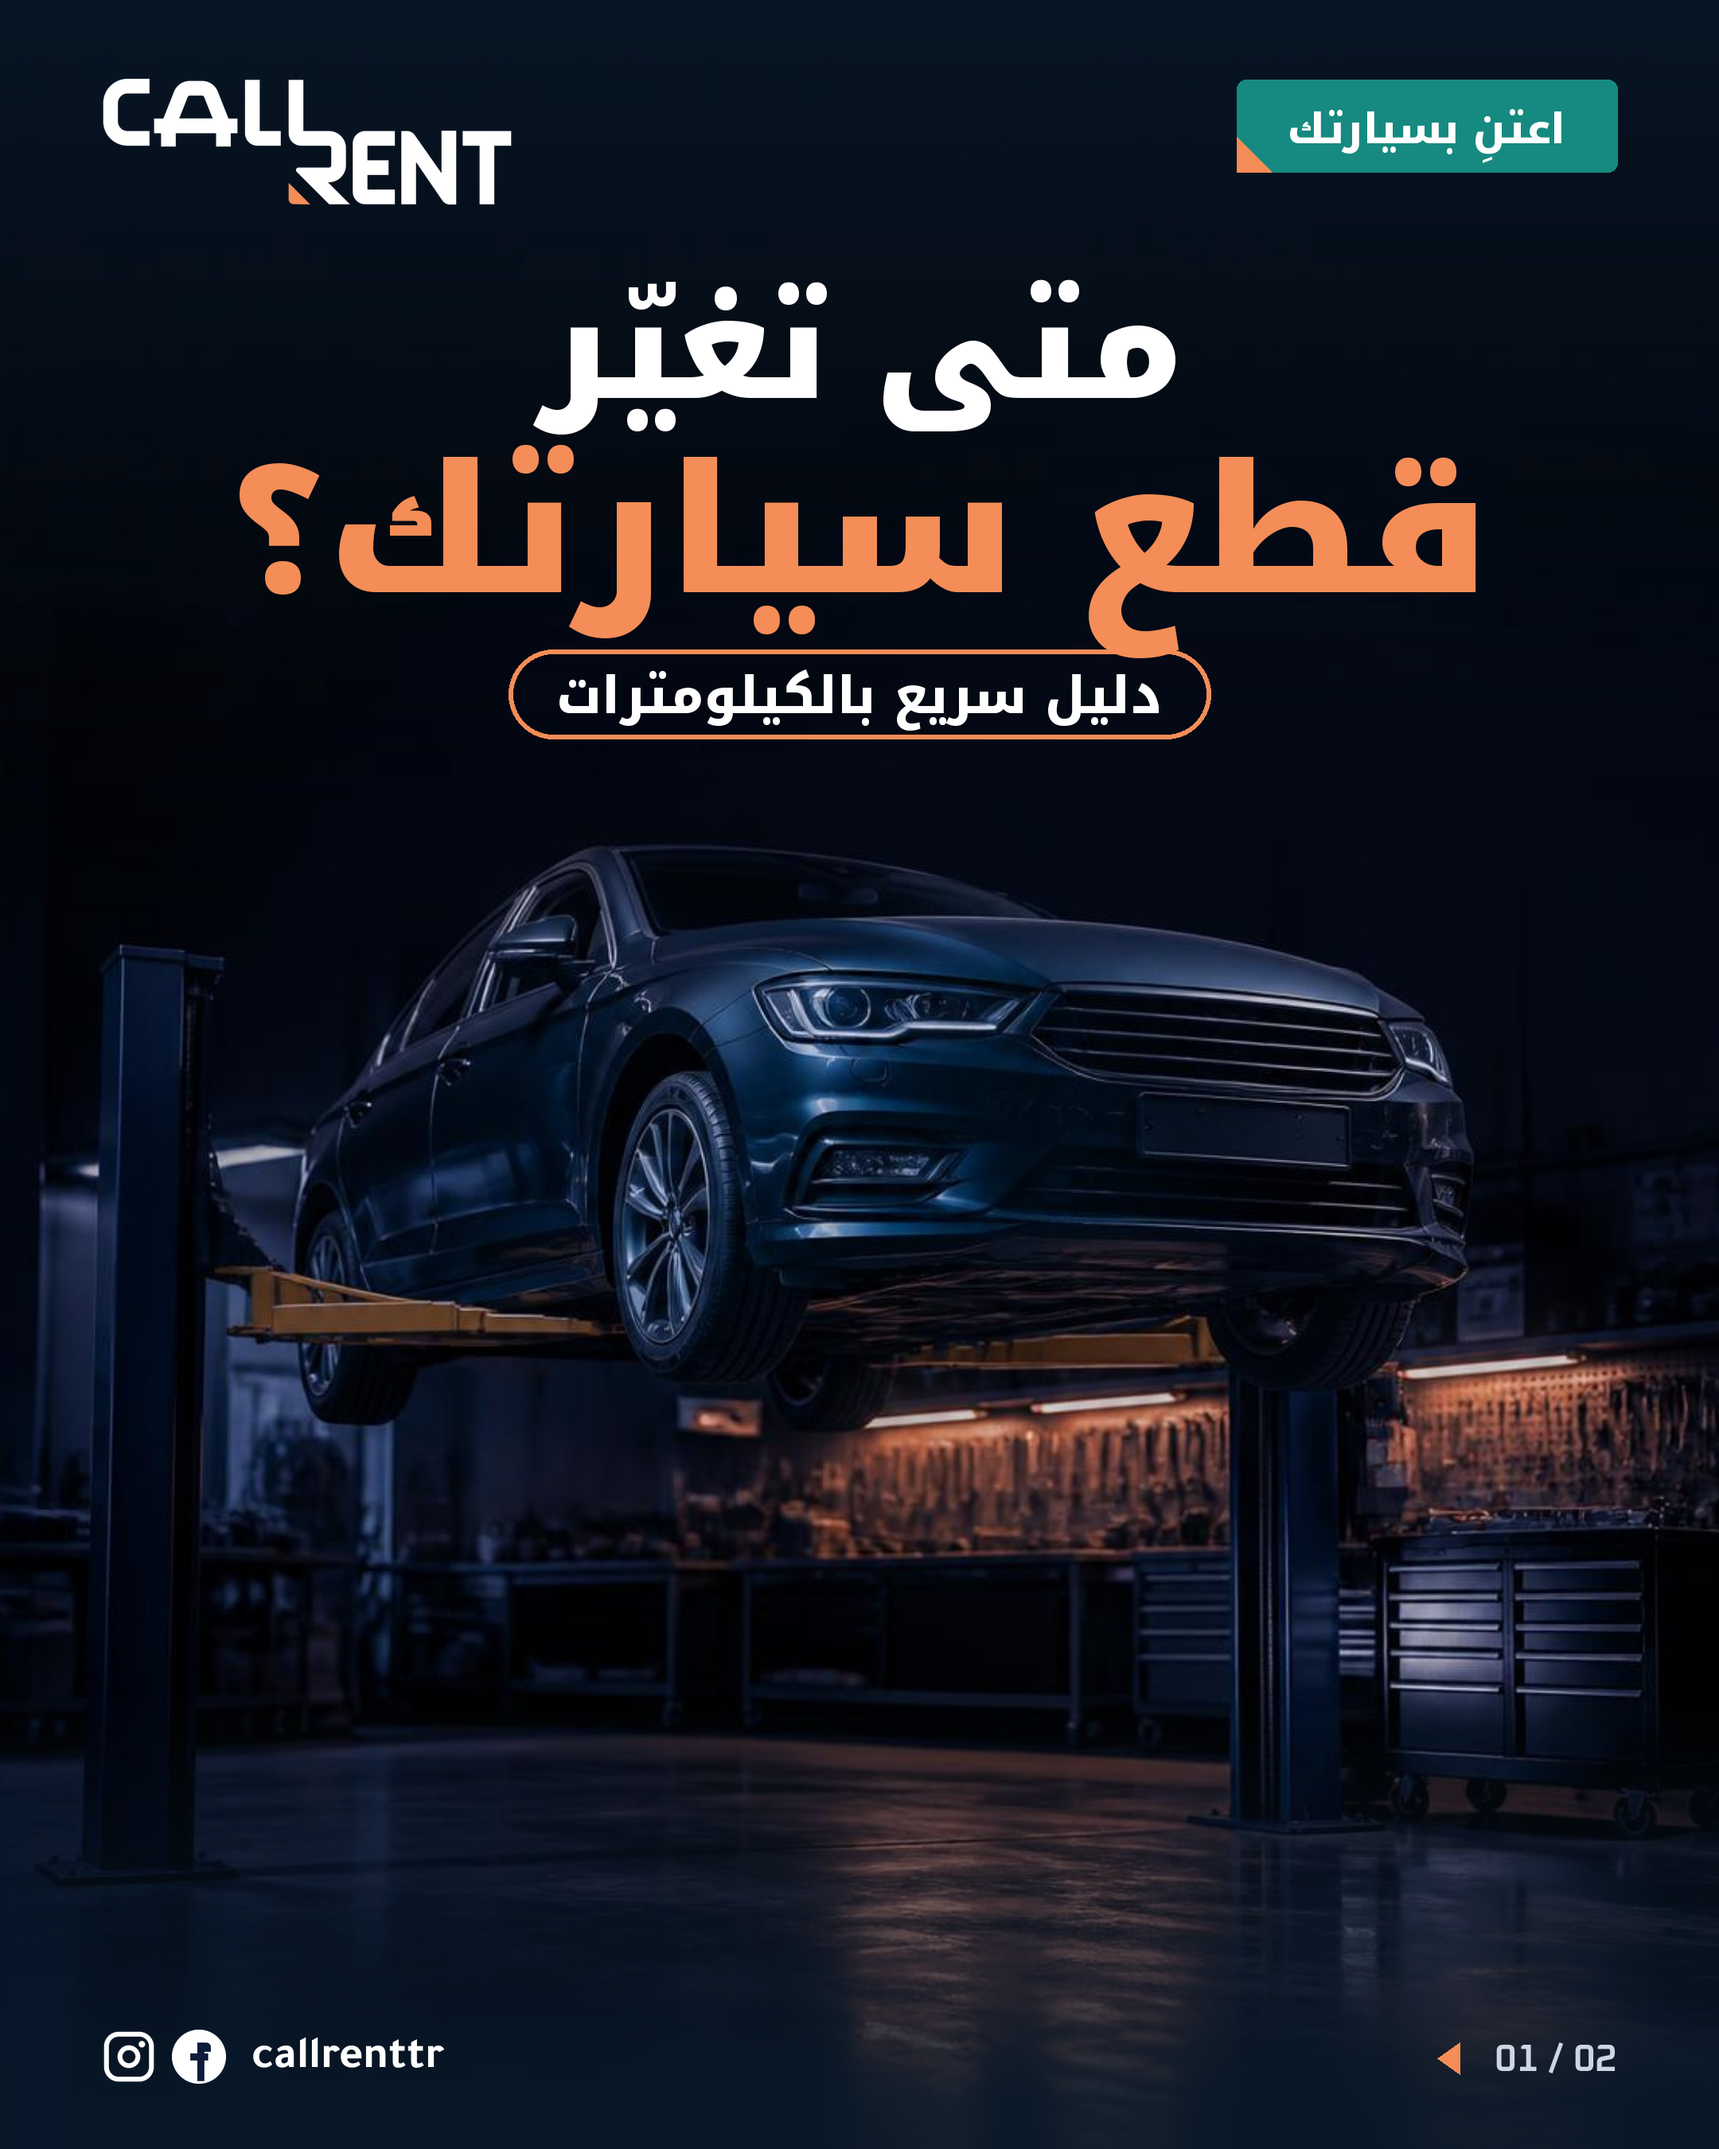
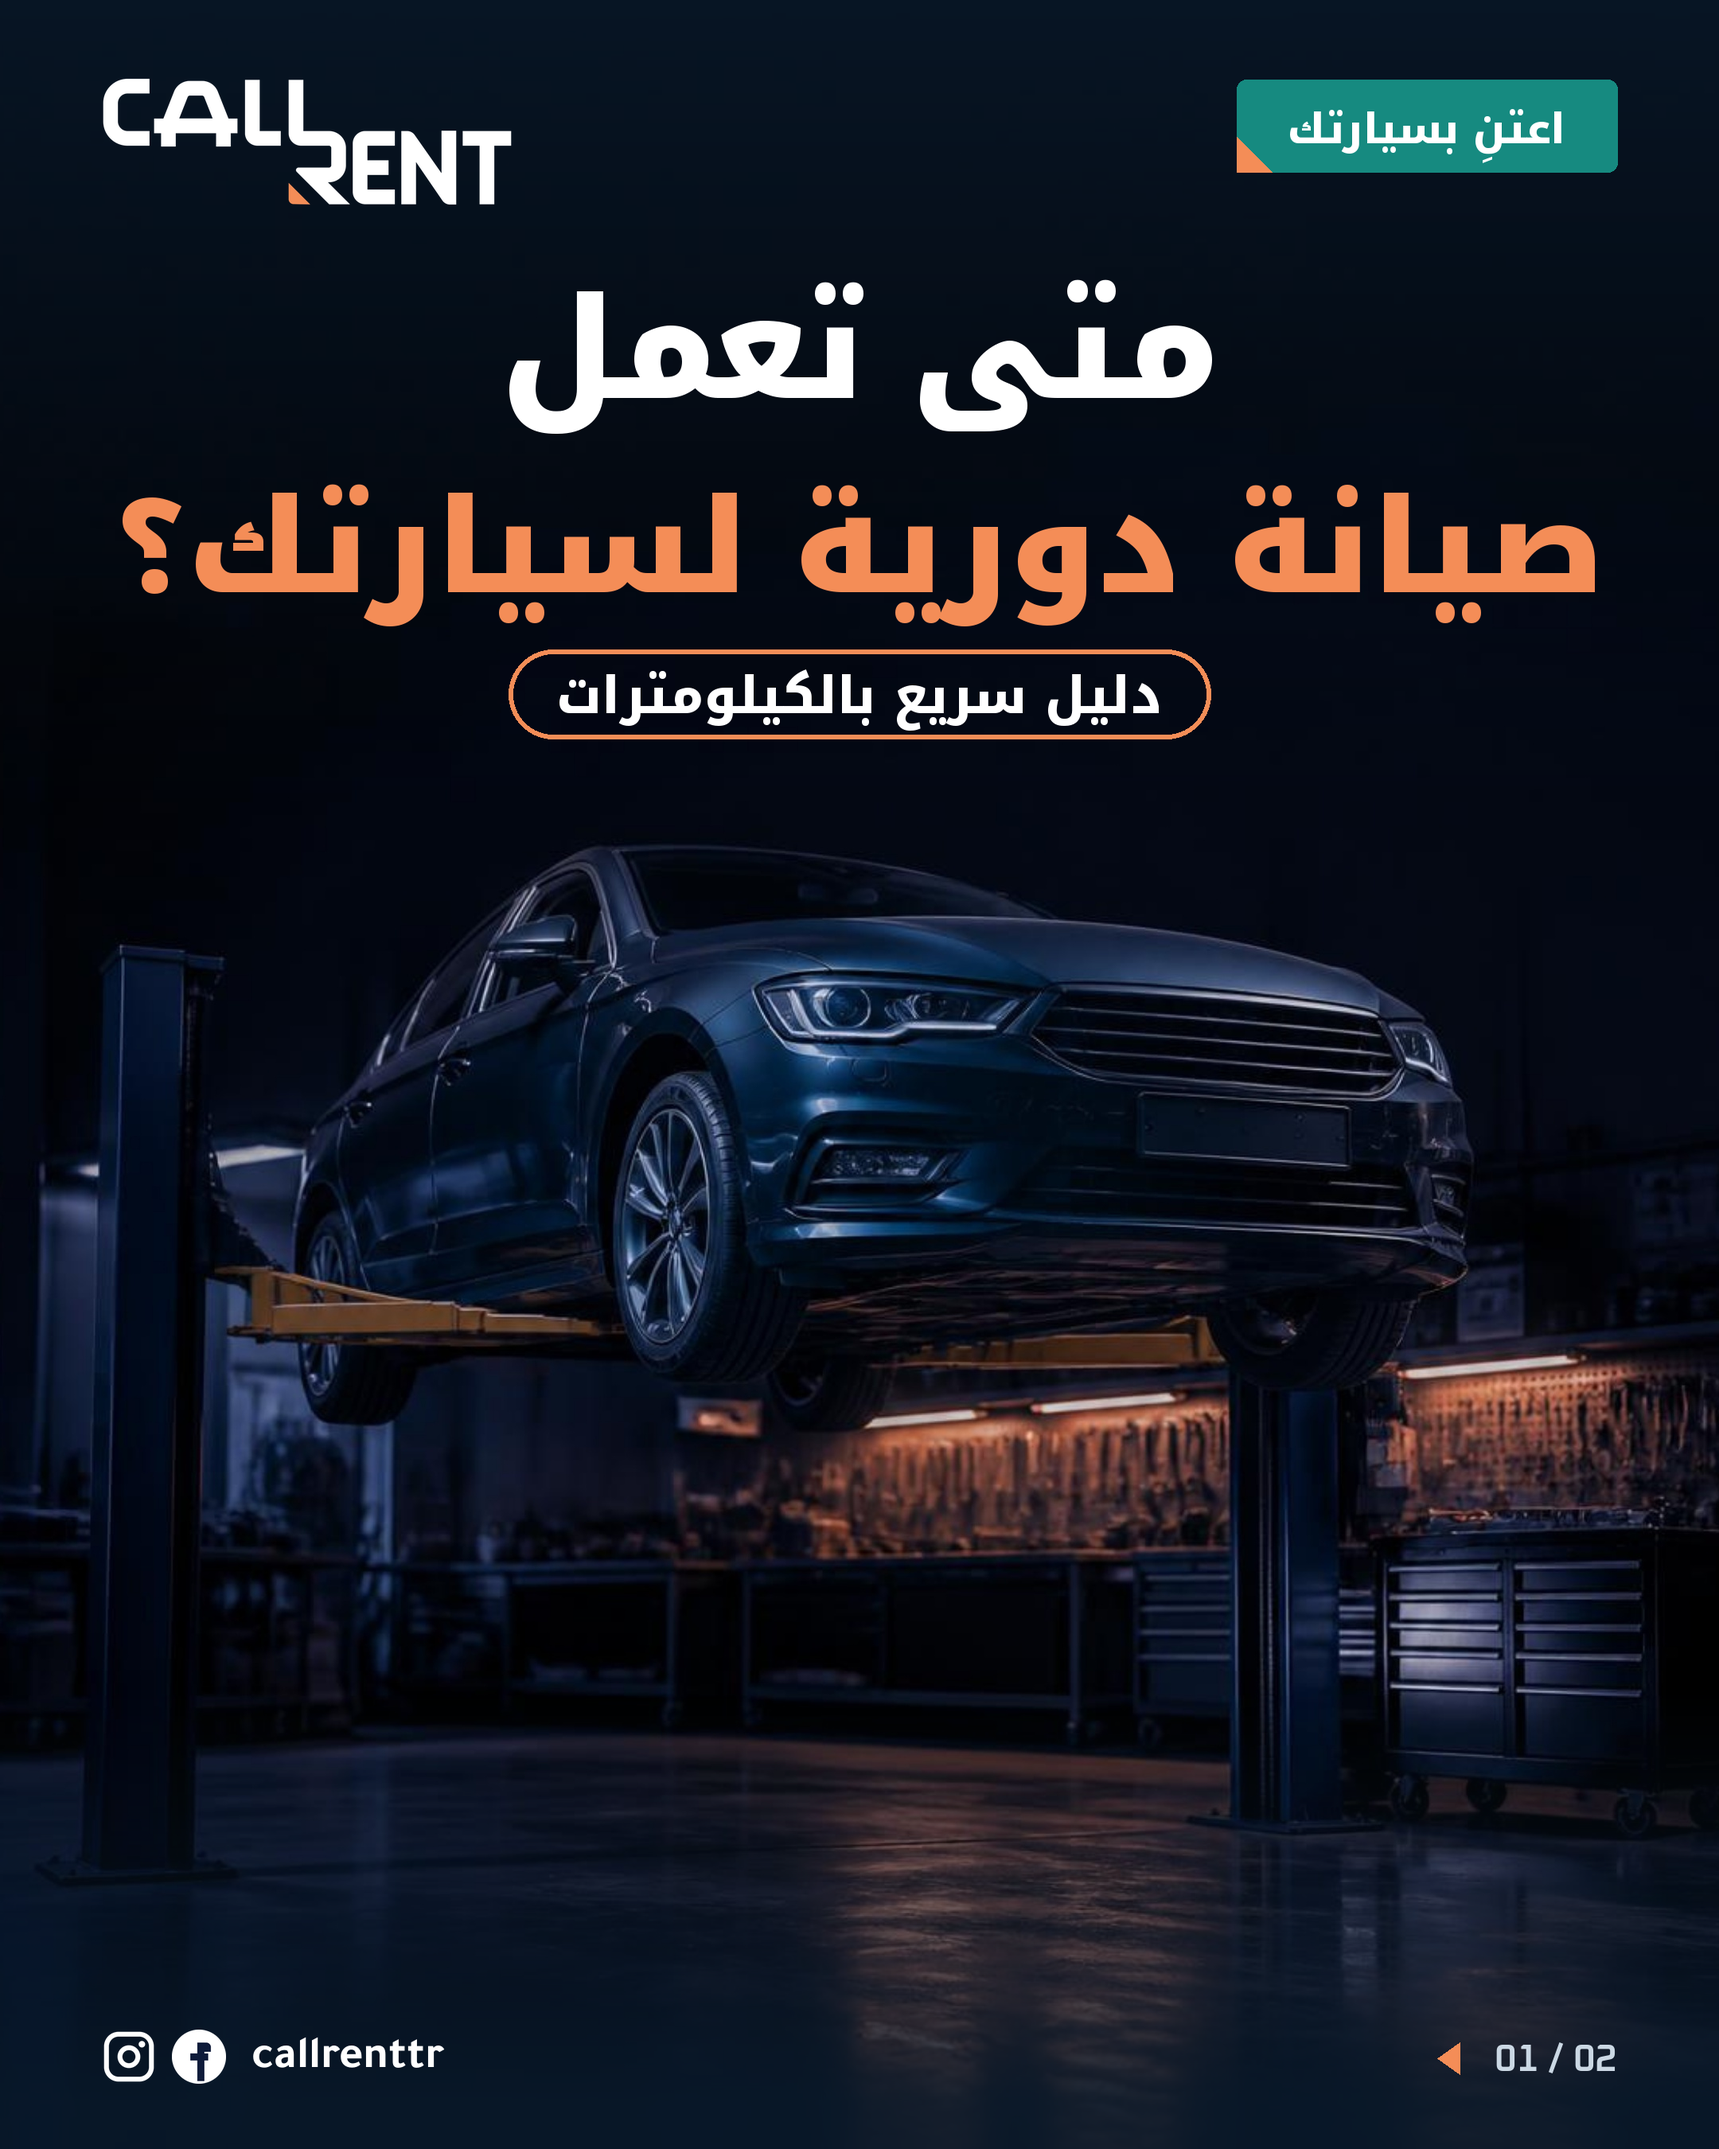
Parts guide: title «متى تعمل صيانة دورية لسيارتك؟»
Claude-Session: https://claude.ai/code/session_01JWxxZZBXcuDznNNTjM86b7

Changed region(s): [[0.062, 0.1244, 0.9306, 0.3111]]

diff --git a/marketing/care/parts_guide.py b/marketing/care/parts_guide.py
@@ -115,8 +115,10 @@ def cover(out):
     cv = Image.open(os.path.join(HERE, 'parts-workshop.jpg')).convert('RGBA').resize((W, H), Image.LANCZOS)
     shade(cv, [(lambda ys: np.clip(1 - ys/S(520), 0, 1)**1.2*0.85, DEEP), (lambda ys: np.clip((ys - S(1060))/S(260), 0, 1)*0.92, DEEP)])
     d = ImageDraw.Draw(cv); cx = W/2
-    d.text((cx, S(250)), 'متى تغيّر', font=F(AR_BLACK, S(88)), fill=Wh+(255,), anchor='ms', direction='rtl', language='ar')
-    d.text((cx, S(372)), 'قطع سيارتك؟', font=F(AR_BLACK, S(112)), fill=O+(255,), anchor='ms', direction='rtl', language='ar')
+    d.text((cx, S(250)), 'متى تعمل', font=F(AR_BLACK, S(88)), fill=Wh+(255,), anchor='ms', direction='rtl', language='ar')
+    t2 = 'صيانة دورية لسيارتك؟'; s2 = S(100)
+    while w_ar(t2, F(AR_BLACK, s2)) > W - 2*M: s2 -= S(2)
+    d.text((cx, S(372)), t2, font=F(AR_BLACK, s2), fill=O+(255,), anchor='ms', direction='rtl', language='ar')
     # odometer-style subtitle chip
     t = 'دليل سريع بالكيلومترات'; fs = F(AR_BOLD, S(32)); tw = w_ar(t, fs) + S(60)
     d.rounded_rectangle((cx - tw/2, S(408), cx + tw/2, S(464)), radius=S(30), outline=O+(255,), width=S(3))
@@ -129,8 +131,11 @@ def guide(out):
     base = Image.open(os.path.join(HERE, 'parts-workshop.jpg')).convert('RGB').resize((W, H), Image.LANCZOS)
     cv = Image.blend(base.filter(ImageFilter.GaussianBlur(S(18))), Image.new('RGB', (W, H), DEEP), 0.78).convert('RGBA')
     d = ImageDraw.Draw(cv); cx = W/2
-    d.text((R_, S(220)), 'متى تغيّر', font=F(AR_BLACK, S(54)), fill=Wh+(255,), anchor='rs', direction='rtl', language='ar')
-    d.text((R_ - w_ar('متى تغيّر', F(AR_BLACK, S(54))) - S(18), S(220)), 'قطع سيارتك؟', font=F(AR_BLACK, S(54)), fill=O+(255,), anchor='rs', direction='rtl', language='ar')
+    t1, t2 = 'متى تعمل', 'صيانة دورية لسيارتك؟'; hs = S(54)
+    while w_ar(t1, F(AR_BLACK, hs)) + S(18) + w_ar(t2, F(AR_BLACK, hs)) > R_ - M: hs -= S(2)
+    fh = F(AR_BLACK, hs)
+    d.text((R_, S(220)), t1, font=fh, fill=Wh+(255,), anchor='rs', direction='rtl', language='ar')
+    d.text((R_ - w_ar(t1, fh) - S(18), S(220)), t2, font=fh, fill=O+(255,), anchor='rs', direction='rtl', language='ar')
     gap = S(22); cw = (R_ - M - gap)/2; ch = S(270); top = S(270)
     lay = Image.new('RGBA', (W, H), (0, 0, 0, 0)); ld = ImageDraw.Draw(lay)
     cells = []
